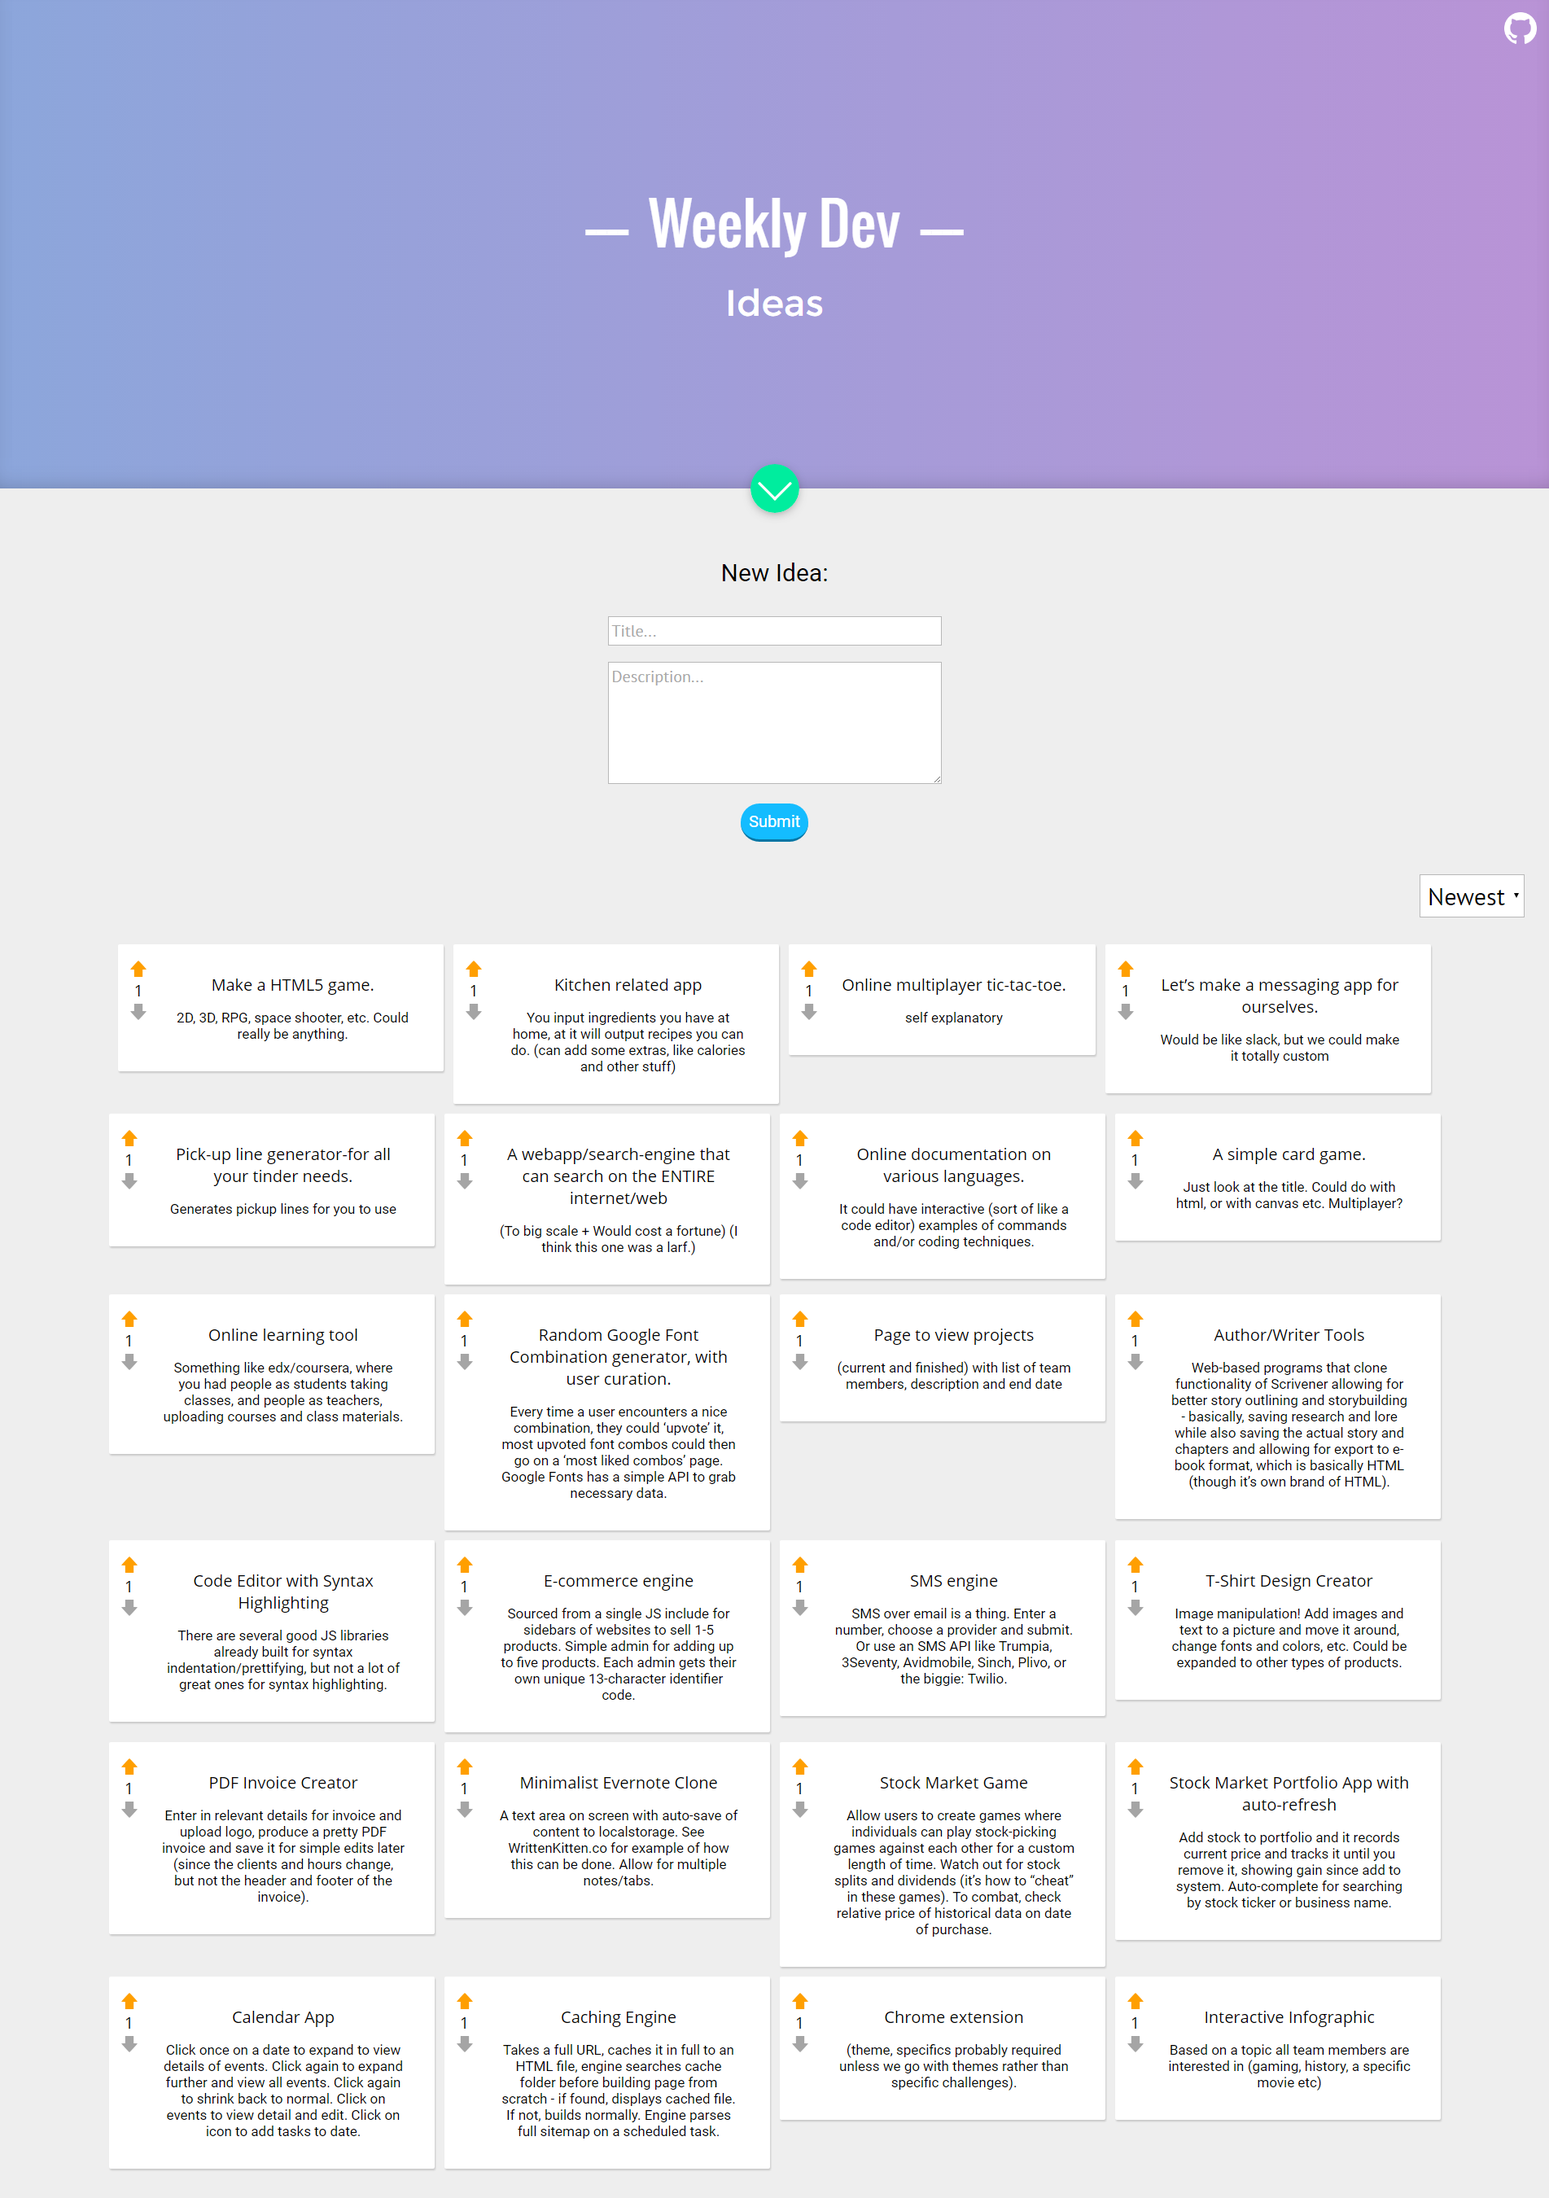
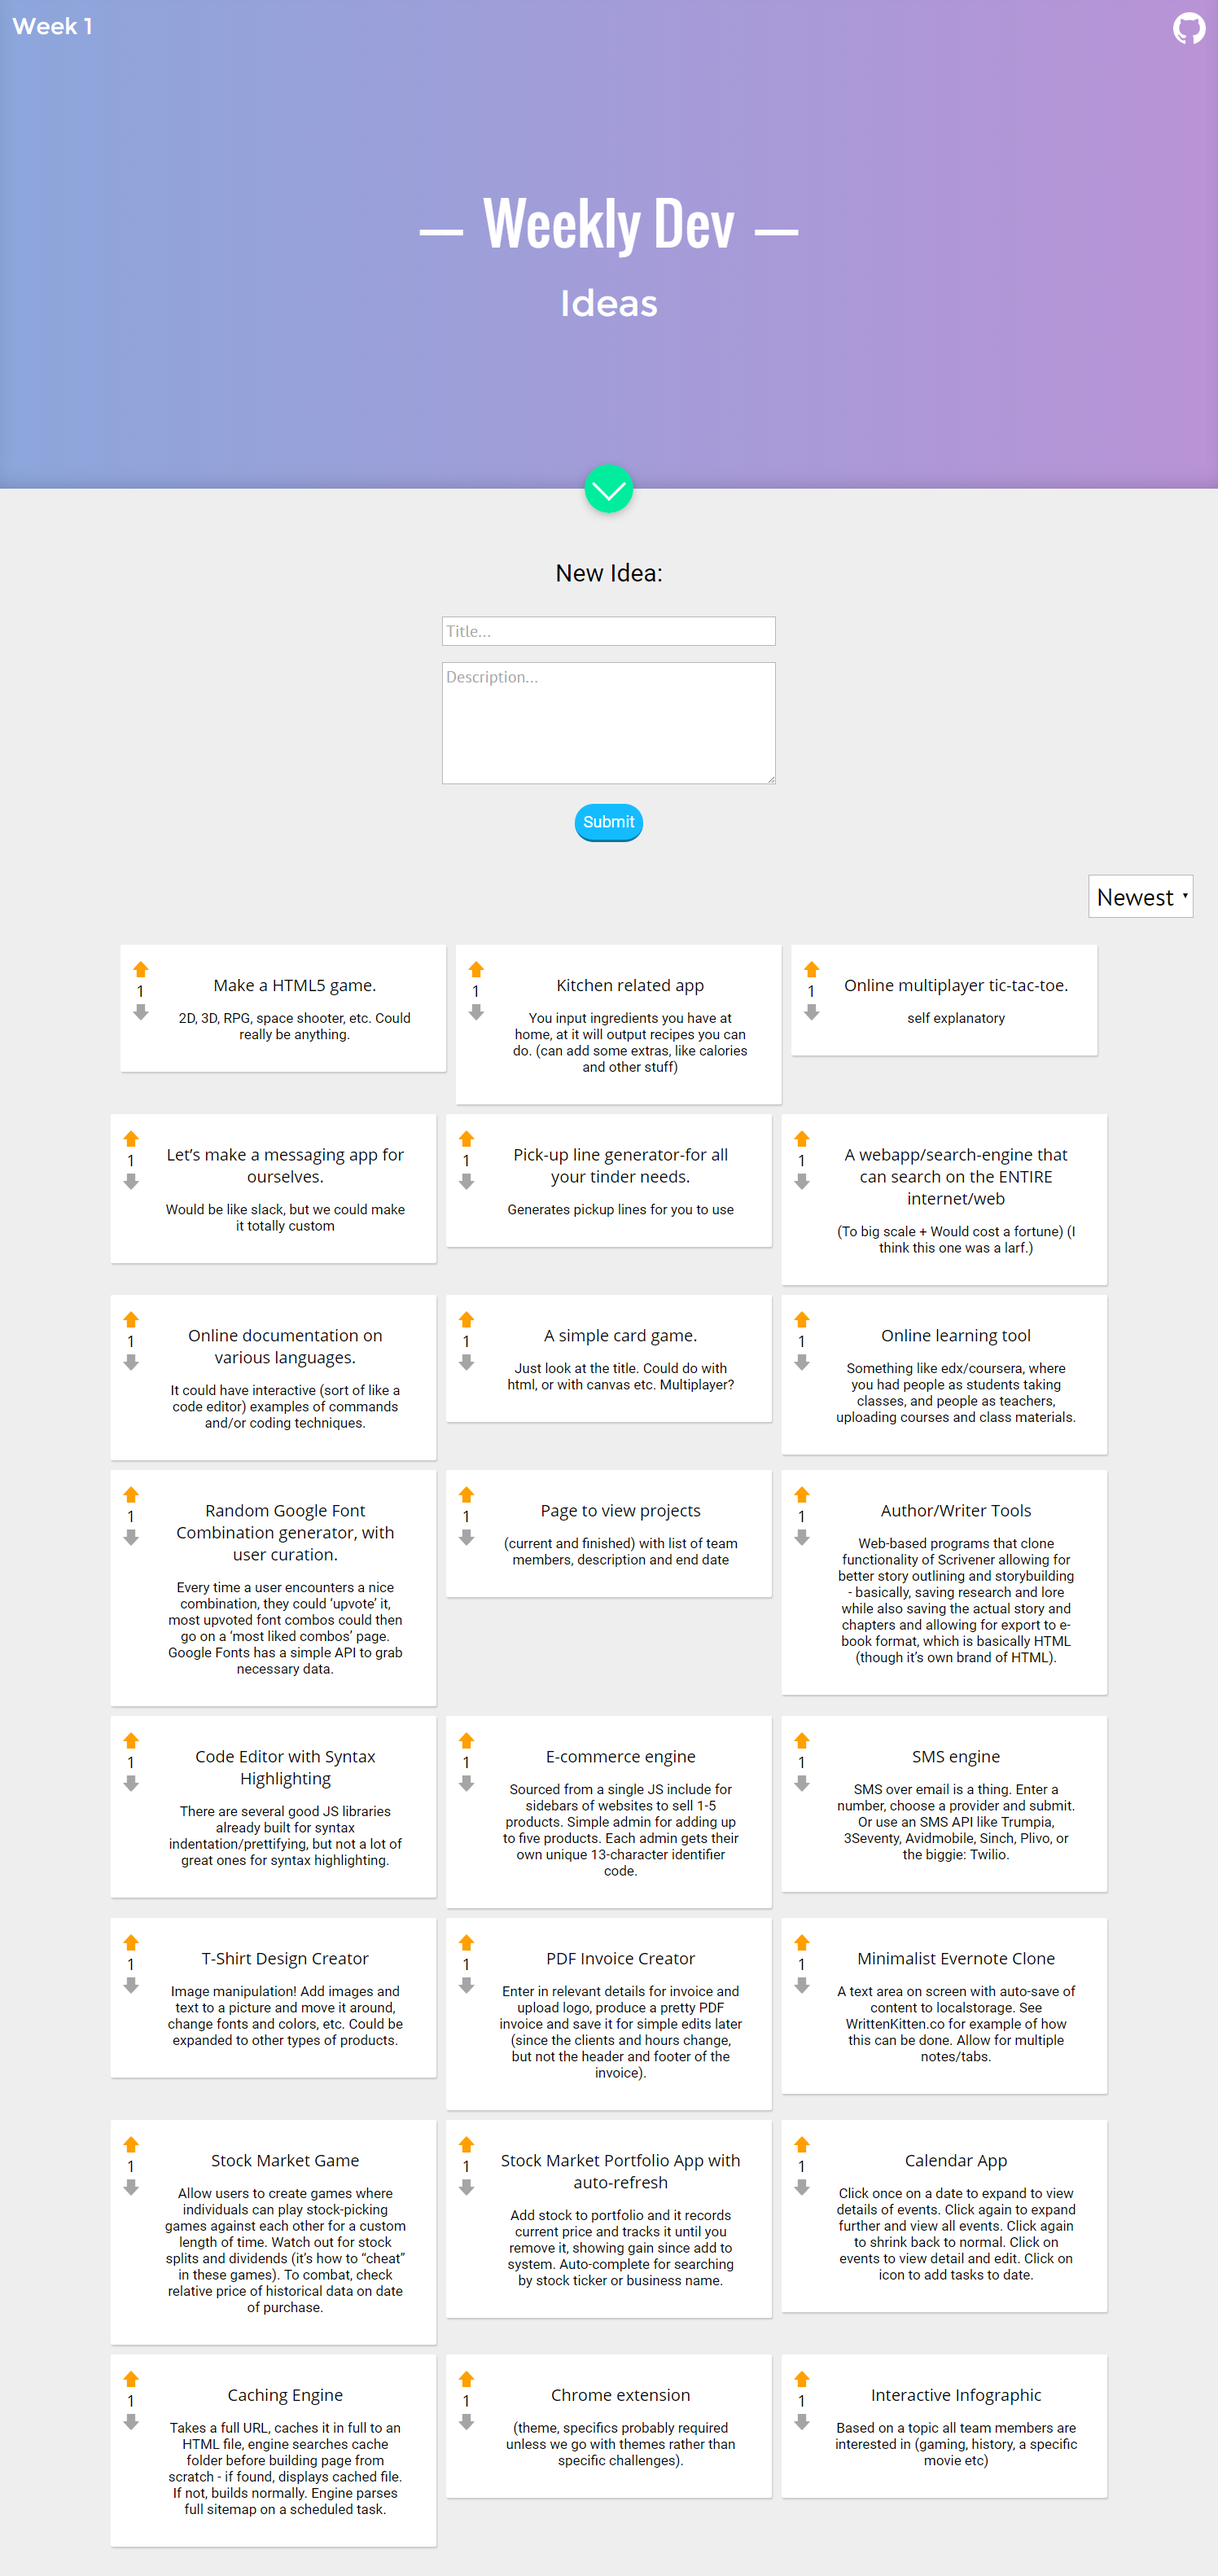
modified some styles, added notfound, added weeknum

diff --git a/templates/vote.html b/templates/vote.html
@@ -19,6 +19,7 @@
       <div id="logos">
         <a href="https://github.com/lucadem1313/weeklydevideas" target="_blank"><img src="{{ url_for('static',filename='images/Github-Mark-Light-64px.png') }}" alt="Github"></a>
       </div>
+      <div id="weeknum">Week {{ week }}</div>
     </section>
     <section id="bottom">
       <form id="newidea">
@@ -45,6 +46,10 @@
             </div>
           </li>
           {% endfor %}
+
+          {% if numItems == 0 %}
+          <div id="notfound">No Ideas Found!</div>
+          {% endif %}
         </ul>
       </div>
     </section>

diff --git a/static/styles/vote.css b/static/styles/vote.css
@@ -328,6 +328,20 @@ h2{
 	transform:rotate(180deg);
 	width:60px;
 }
+#weeknum{
+	font:28px Montserrat, sans-serif;
+	position: absolute;
+	top:0;
+	left:0;
+	padding:15px;
+	color:#FFF;
+}
+#notfound{
+	font:40px Roboto, sans-serif;
+	color:#000;
+	margin-top:50px;
+	margin-bottom:100px;
+}
 
 @media screen and (max-width:550px){
   #title{
@@ -343,4 +357,14 @@ h2{
   #title::before{
     content:"";
   }
+}
+
+@media screen and (max-width:280px){
+	#logos{
+		display: none;
+	}
+	#weeknum{
+		width:100%;
+		text-align:center;
+	}
 }

diff --git a/static/scripts/vote.js b/static/scripts/vote.js
@@ -40,6 +40,9 @@ function listItems(items){
       </div>\
     </li>');
   });
+
+  if(items.length == 0)
+    $("#list ul").html('<div id="notfound">No Ideas Found!</div>');
 }
 
 $.ajax({

diff --git a/app.py b/app.py
@@ -32,54 +32,6 @@ def verify_user(userId, passKey):
 
     return {"success":success, "userNumId":userNumId}
 
-def get_ideas_incomplete(weekNum):
-
-    items = []
-    error = ""
-    success = False
-    payload = {}
-    userId = request.args.get("userId")
-    passKey = request.args.get("passKey")
-
-    cursor.execute("SELECT id, title, text, longid, unix_timestamp(date), week FROM `ideas` WHERE week=%s ORDER BY date DESC", (weekNum,))
-    rawItems = cursor.fetchall()
-
-    verifyuser = verify_user(userId, passKey)
-    userNumId = verifyuser["userNumId"]
-
-    if verifyuser["success"]:
-        for item in rawItems:
-            cursor.execute("SELECT * FROM `upvotes` WHERE `userid`=%s AND `itemid`=%s", (userNumId,item[0]))
-
-            vote = "neutral"
-
-            if cursor.rowcount > 0:
-                vote = "upvoted"
-            else:
-                cursor.execute("SELECT * FROM `downvotes` WHERE `userid`=%s AND `itemid`=%s", (userNumId,item[0]))
-                if cursor.rowcount > 0:
-                    vote = "downvoted"
-
-            cursor.execute("SELECT itemid FROM `upvotes` WHERE `itemid`=%s", (item[0],))
-            upvotes = cursor.rowcount
-
-            cursor.execute("SELECT itemid FROM `downvotes` WHERE `itemid`=%s", (item[0],))
-            downvotes = cursor.rowcount
-
-            karma = upvotes - downvotes
-
-            items.append({"id":item[3], "title":item[1], "text":item[2], "date":item[4], "vote":vote, "karma":karma})
-
-        success = True
-        error = ""
-        payload = {"items":items}
-    else:
-        success = False
-        error = "Unable to verify user"
-
-    return {"success":success, "error":error, "payload":payload}
-
-
 
 @app.route("/week/<weekNum>/")
 @app.route("/")
@@ -95,7 +47,7 @@ def vote_page(weekNum=currentWeek):
         karma = upvotes - downvotes
         items.append({"id":item[3], "title":item[1], "text":item[2], "date":item[4], "karma":karma})
 
-    return render_template("vote.html", week=weekNum, items=items)
+    return render_template("vote.html", week=weekNum, items=items, numItems=len(items))
 
 
 @app.route("/api/ideas/current/", methods = ["GET"])
